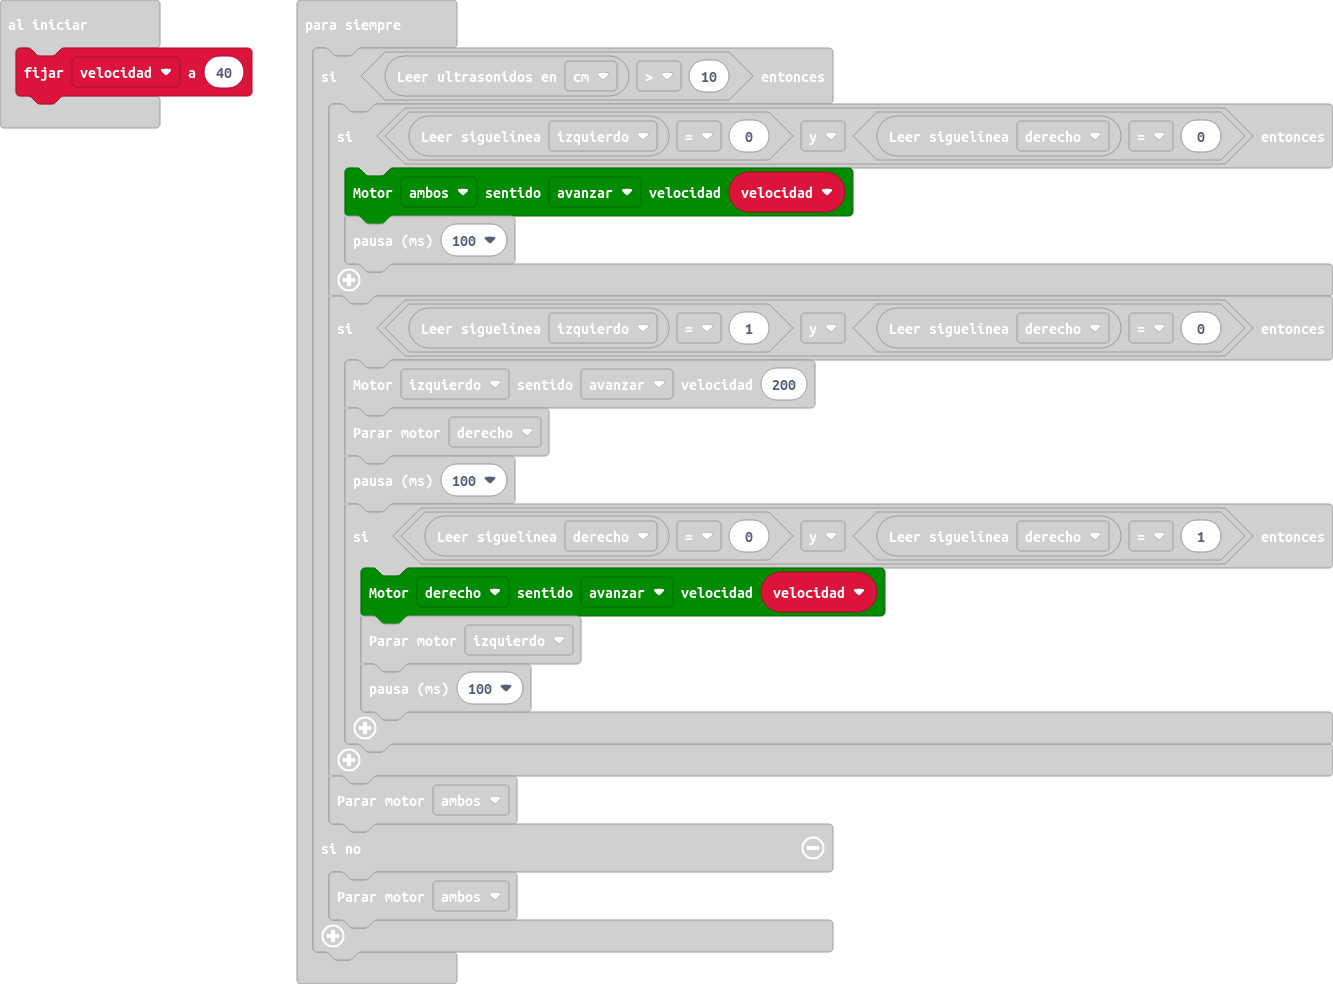
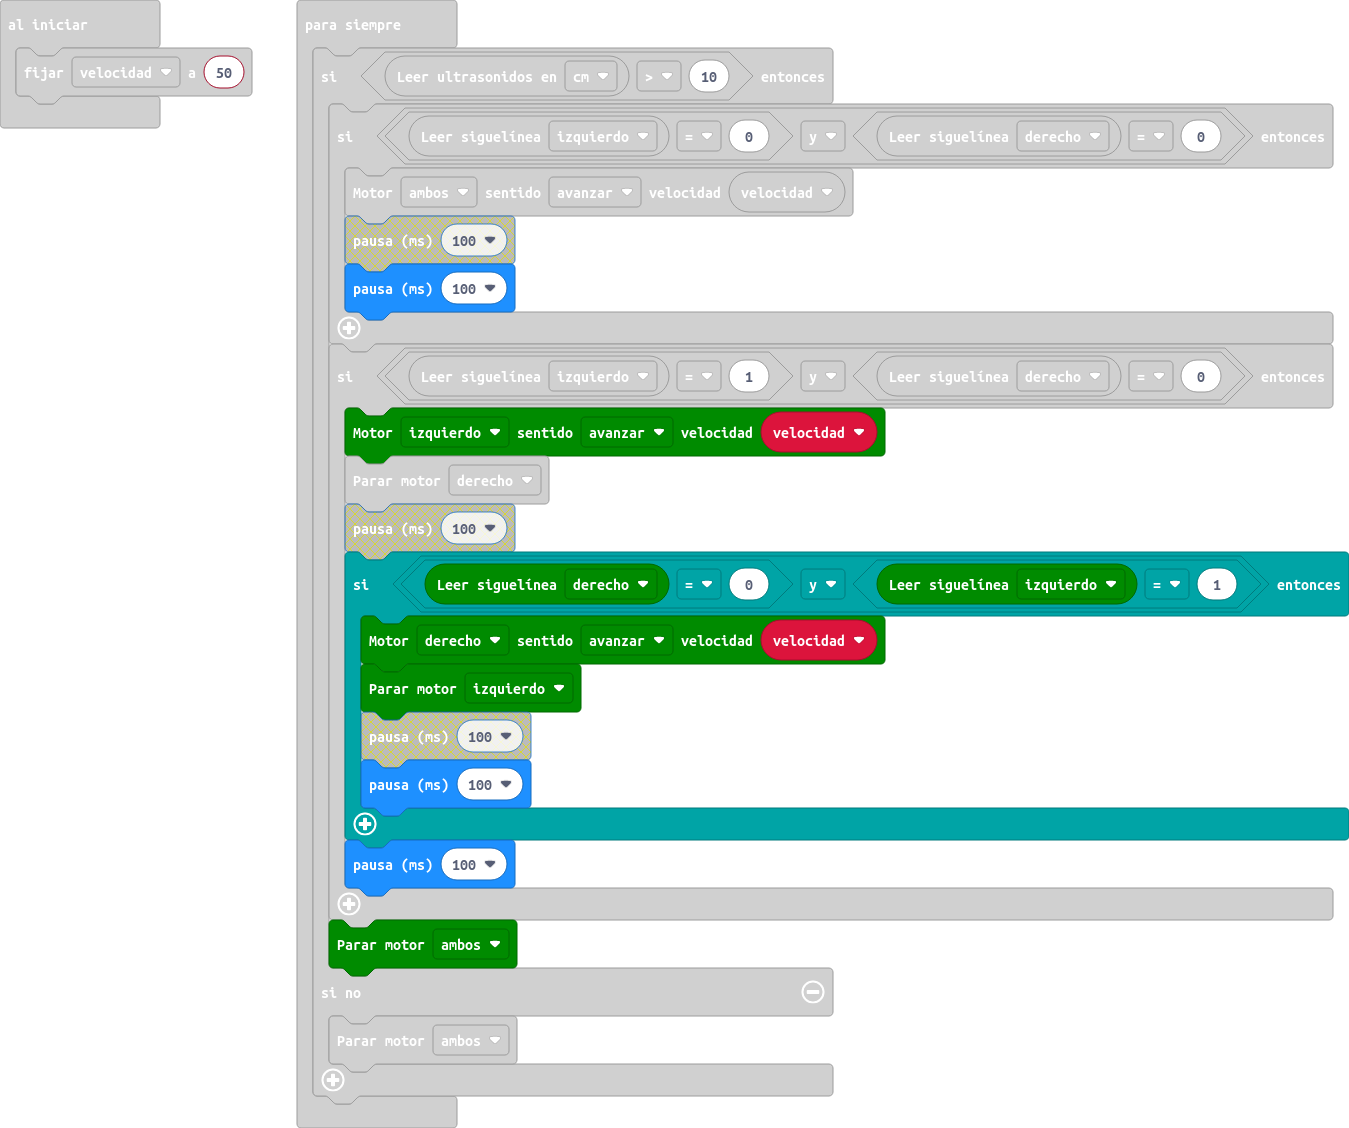
Actualizar main.blocks, main.ts

diff --git a/main.ts b/main.ts
@@ -1,4 +1,4 @@
-let velocidad = 40
+let velocidad = 50
 basic.forever(function () {
     if (maqueen.Ultrasonic(PingUnit.Centimeters) > 10) {
         if (maqueen.readPatrol(maqueen.Patrol.PatrolLeft) == 0 && maqueen.readPatrol(maqueen.Patrol.PatrolRight) == 0) {
@@ -6,10 +6,10 @@ basic.forever(function () {
             basic.pause(100)
         }
         if (maqueen.readPatrol(maqueen.Patrol.PatrolLeft) == 1 && maqueen.readPatrol(maqueen.Patrol.PatrolRight) == 0) {
-            maqueen.motorRun(maqueen.Motors.M1, maqueen.Dir.CW, 200)
+            maqueen.motorRun(maqueen.Motors.M1, maqueen.Dir.CW, velocidad)
             maqueen.motorStop(maqueen.Motors.M2)
             basic.pause(100)
-            if (maqueen.readPatrol(maqueen.Patrol.PatrolRight) == 0 && maqueen.readPatrol(maqueen.Patrol.PatrolRight) == 1) {
+            if (maqueen.readPatrol(maqueen.Patrol.PatrolRight) == 0 && maqueen.readPatrol(maqueen.Patrol.PatrolLeft) == 1) {
                 maqueen.motorRun(maqueen.Motors.M2, maqueen.Dir.CW, velocidad)
                 maqueen.motorStop(maqueen.Motors.M1)
                 basic.pause(100)
